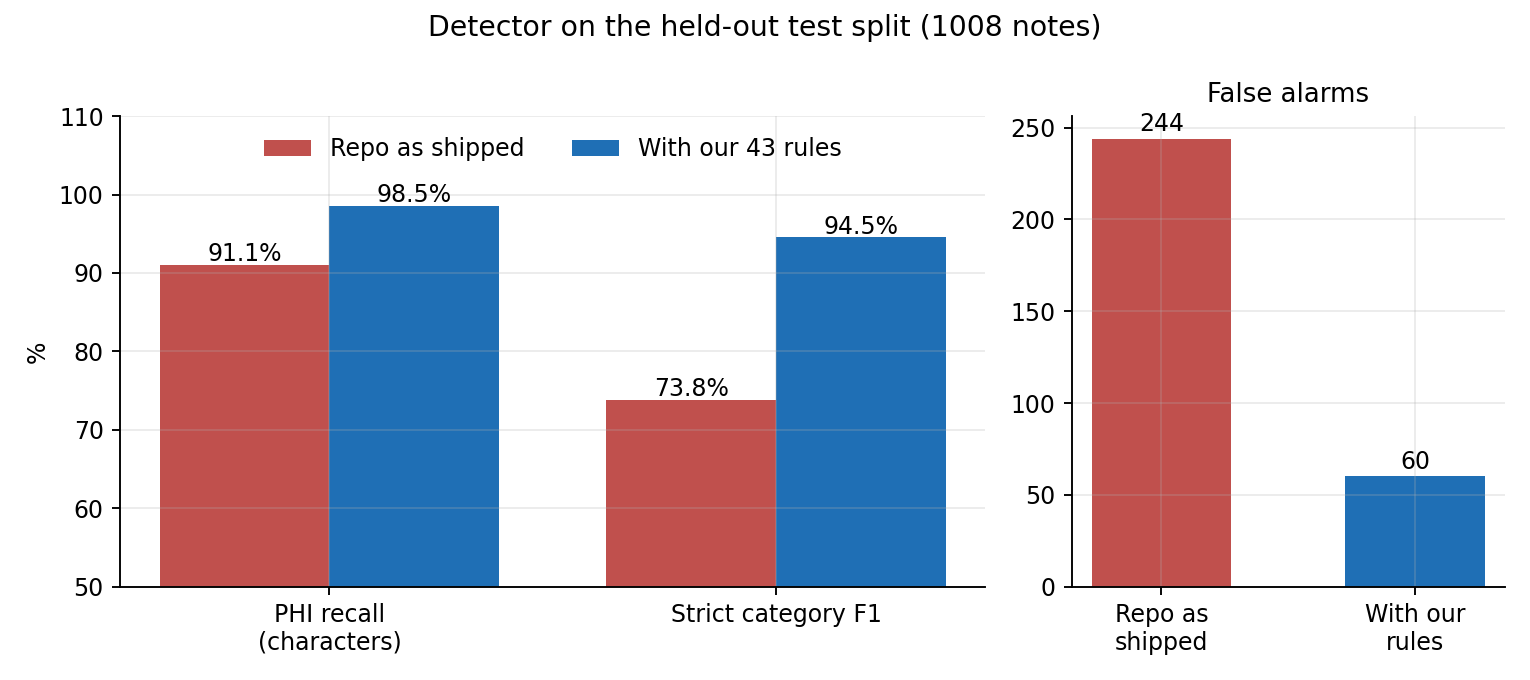
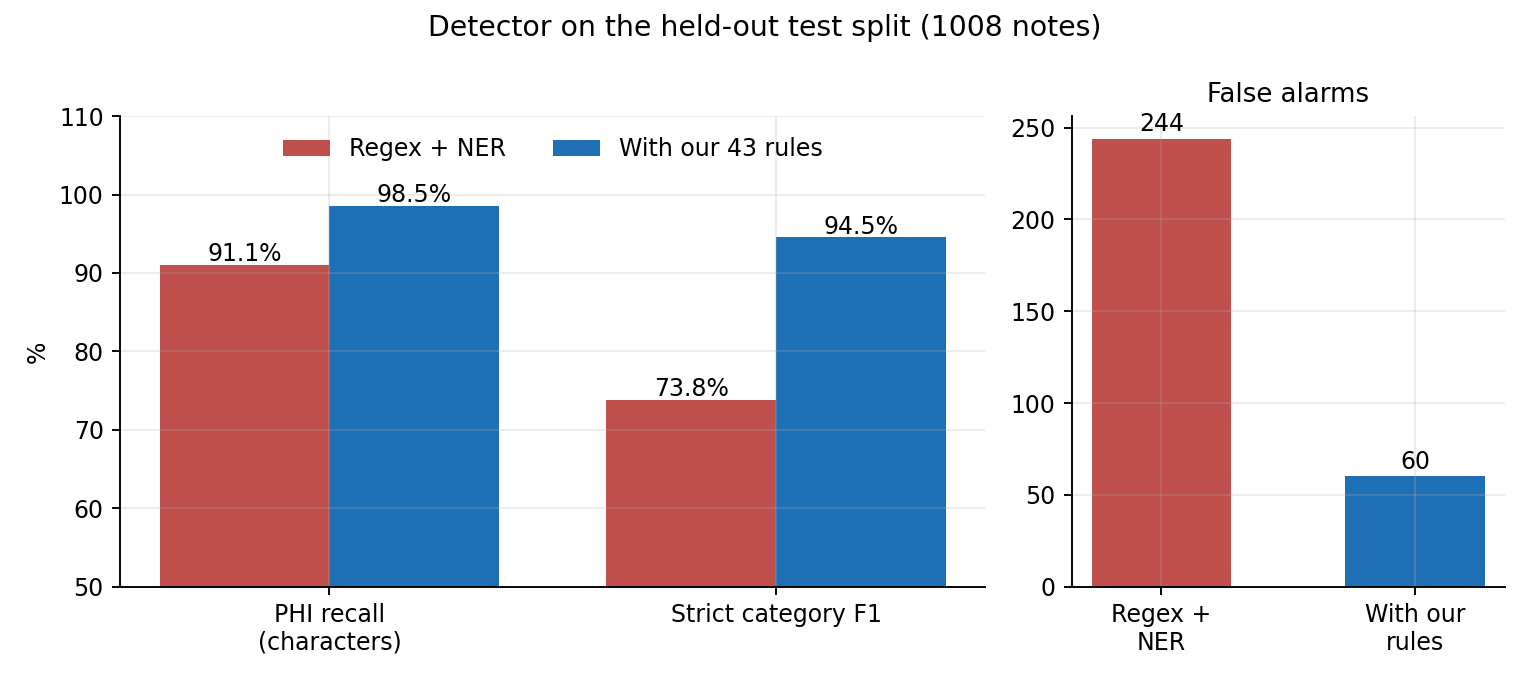
Call the baseline 'regex + NER model' instead of 'repo as shipped'

Changed region(s): [[0.1536, 0.1853, 0.5529, 0.2471], [0.7065, 0.8956, 0.7987, 0.9574]]

diff --git a/deidconf/figures.py b/deidconf/figures.py
@@ -32,13 +32,13 @@ def detector(split, tag, out):
     bv = [base["char"]["phi_recall"] * 100, base["strict_category"]["f1"] * 100]
     nv = [new["char"]["phi_recall"] * 100, new["strict_category"]["f1"] * 100]
     x = np.arange(2)
-    r1 = a.bar(x - 0.19, bv, 0.38, color=RAW, label="Repo as shipped")
+    r1 = a.bar(x - 0.19, bv, 0.38, color=RAW, label="Regex + NER")
     r2 = a.bar(x + 0.19, nv, 0.38, color=OURS, label="With our 43 rules")
     for r in list(r1) + list(r2):
         a.text(r.get_x() + r.get_width() / 2, r.get_height() + 0.5, f"{r.get_height():.1f}%", ha="center", fontsize=10)
     a.set_xticks(x, names); a.set_ylim(50, 110); a.set_ylabel("%"); a.legend(loc="upper center", ncol=2, frameon=False); _style(a)
     fa = [base["pred_all"]["false_alarms"], new["pred_all"]["false_alarms"]]
-    r = b.bar(["Repo as\nshipped", "With our\nrules"], fa, color=[RAW, OURS], width=0.55)
+    r = b.bar(["Regex +\nNER", "With our\nrules"], fa, color=[RAW, OURS], width=0.55)
     for rr in r:
         b.text(rr.get_x() + rr.get_width() / 2, rr.get_height() + 4, f"{int(rr.get_height())}", ha="center", fontsize=10)
     b.set_title("False alarms", fontsize=11); _style(b)

diff --git a/deidconf/evaluate.py b/deidconf/evaluate.py
@@ -290,7 +290,7 @@ def main(argv=None) -> int:
     ap.add_argument("--out", default="results/eval")
     ap.add_argument("--rules", default="cached", choices=["cached", "live", "baseline"],
                     help="live: run the current regex rules (incl. MedDeID rule set) instead of the cached spans; "
-                         "baseline: run the repo's shipped rules and settings (no MedDeID rule set)")
+                         "baseline: run the original regex rules and NER model (no MedDeID rule set)")
     ap.add_argument("--model", default="cached", choices=["cached", "redecode"],
                     help="redecode: decode model spans again from cached probabilities with the current label map")
     ap.add_argument("--tag", default=None, help="output folder suffix (default: '_live' when rules/model are live)")

diff --git a/deidconf/detect.py b/deidconf/detect.py
@@ -53,7 +53,7 @@ def adapted_configs():
 
 
 def baseline_configs():
-    """The repo's shipped rules and settings, only adapted to the MedDeID guideline (the 'as shipped' baseline that
+    """The original regex rules and NER model, only adapted to the MedDeID guideline (the baseline that
     was scored on cal before any MedDeID rule existed): all ages, titles kept, states kept, no model-score cut."""
     from deid.config import load_labels, load_yaml
     det = load_yaml(REPO / "configs/detection.yaml")

diff --git a/deidconf/report.py b/deidconf/report.py
@@ -43,7 +43,7 @@ def main(argv=None) -> int:
           "|---|---|---|---|---|---|"]
     rows = []
     if base:
-        rows.append(("Baseline: repo rules + model (as shipped)", base))
+        rows.append(("Baseline: regex + NER model", base))
     if ev_rules:
         rows.append(("MedDeID rules only", ev_rules))
     if ev_model:

diff --git a/REPORT.md b/REPORT.md
@@ -98,7 +98,7 @@ are the first numbers seen on `cal`.
 
 | System | PHI recall (chars) [95 % CI] | Non-PII redaction | Strict category P / R / F1 | False alarms | Hard negatives redacted |
 |---|---|---|---|---|---|
-| Baseline: repo rules + model, as shipped | 91.4 % [90.8–92.0] | 0.31 % | 73.0 / 74.3 / 73.7 | 251 | 33 / 1000 |
+| Baseline: regex + NER model | 91.4 % [90.8–92.0] | 0.31 % | 73.0 / 74.3 / 73.7 | 251 | 33 / 1000 |
 | MedDeID rules only | 94.1 % [93.5–94.8] | 0.06 % | 97.6 / 91.6 / 94.5 | 16 | 2 / 1000 |
 | Model only | 83.6 % [82.7–84.6] | 0.04 % | 72.8 / 69.1 / 70.9 | 57 | 14 / 1000 |
 | **MedDeID rules + model** | **98.5 % [98.2–98.8]** | 0.09 % | 94.1 / 94.9 / **94.5** | 72 | 15 / 1000 |
@@ -161,14 +161,14 @@ of the 15 for review. Per note on CPU: rules 9 ms, model 0.40 s, MC dropout with
 ### 5.2 Test split (single run; full tables in `results/RESULTS_test_v5.md`)
 
 Nothing was refitted: rules and settings from `train`, forecasters and thresholds from `cal`. The baseline row
-re-runs the repo's shipped rules and settings on the same notes (code-level guards added during the project also
+re-runs the original regex rules and NER model, with the same guideline settings, on the same notes (code-level guards added during the project also
 apply to it, worth ≈ 9 false alarms per 1,000 notes on `cal`).
 
 **Detector** (1,008 notes, 5,790 gold spans).
 
 | System | PHI recall (chars) [95 % CI] | Non-PII redaction | Strict category P / R / F1 | False alarms | Hard negatives redacted |
 |---|---|---|---|---|---|
-| Baseline: repo rules + model, as shipped | 91.1 % [90.5–91.7] | 0.30 % | 73.3 / 74.2 / 73.8 | 244 | 32 / 1008 |
+| Baseline: regex + NER model | 91.1 % [90.5–91.7] | 0.30 % | 73.3 / 74.2 / 73.8 | 244 | 32 / 1008 |
 | MedDeID rules only | 94.1 % [93.5–94.8] | 0.04 % | 97.6 / 91.6 / 94.5 | 9 | 0 / 1008 |
 | Model only | 83.4 % [82.5–84.3] | 0.03 % | 73.2 / 69.0 / 71.0 | 51 | 11 / 1008 |
 | **MedDeID rules + model** | **98.5 % [98.3–98.9]** | 0.07 % | 94.1 / 94.9 / **94.5** | 60 | 11 / 1008 |
@@ -255,7 +255,7 @@ confidence layer. Per note on CPU: rules 17 ms, model 0.35 s, MC dropout with 10
 
 ## 6. Discussion
 
-**What the detector changes bought.** The shipped repo reached 91 % character recall on MedDeID with 251 false
+**What the detector changes bought.** The original regex + NER system reached 91 % character recall on MedDeID with 251 false
 alarms per 1,000 notes; most of the gap was guideline mismatch (titles, states, all ages, `Occupation:`), UK
 identifiers the HIPAA-oriented rules never saw, and generic organisation rules that fired on specialties. 43
 guideline-specific rules written on `train` plus a handful of post-processing switches took recall to 98.5 % and
@@ -333,7 +333,7 @@ spans, 95 on test, 18 of them wrong): the forecaster's ECE there is 0.035, ten t
 python -m deidconf.prepare                      # split (once)
 python -m deidconf.detect --split cal           # model pass, cached
 python -m deidconf.mcdropout --split cal        # 10 passes; the saved forecasters use these features
-python -m deidconf.evaluate --split cal --rules baseline --model redecode --tag ""   # shipped repo
+python -m deidconf.evaluate --split cal --rules baseline --model redecode --tag ""   # original regex + NER baseline
 python -m deidconf.evaluate --split cal --rules live --model redecode --tag _v5
 python -m deidconf.features --split cal --eval-tag _v5
 python -m deidconf.confidence --features results/features/cal_v5.rules+model.csv --target y_is_phi --save

diff --git a/NEXT_STEPS.md b/NEXT_STEPS.md
@@ -14,7 +14,7 @@
 
 | # | Step | Result on `test` (single run, nothing refitted) |
 |---|---|---|
-| 1–2 | Detector + evaluation | Baseline (repo as shipped): PHI recall 91.1 %, 244 false alarms, strict F1 73.8 %. **Improved: 98.5 %, 60 false alarms, strict F1 94.5 %**, non-PII redaction 0.07 % |
+| 1–2 | Detector + evaluation | Baseline (regex + NER model): PHI recall 91.1 %, 244 false alarms, strict F1 73.8 %. **Improved: 98.5 %, 60 false alarms, strict F1 94.5 %**, non-PII redaction 0.07 % |
 | 3 | Full probabilities + MC dropout | cached in `results/detect/`, `results/mcdropout/` (cal and test) |
 | 4–5 | Span confidence (papers 1 + 2 + ours) | is-PHI: ECE 0.203 → **0.003**, AUROC(error) 0.752 → **0.998**, all 62 spans that are not PHI (including all 60 false alarms) among the 5 % least-confident spans. Category: ECE 0.0045, AUROC 0.997. Exact: ECE 0.005, AUROC 0.997 |
 | 6 | Missed PHI (our addition) | 86 % of uncovered gold spans get a candidate; forecaster AUROC 0.990; adding at p ≥ 0.5 adds 80 candidates, 76 of them real missed PHI (95 % precision), PHI recall 98.5 % → 99.5 %, gold spans missed 114 → 40; note-level risk AUROC 0.964, riskiest 10 % of notes hold 84 % of misses |

diff --git a/results/RESULTS_cal_v4.md b/results/RESULTS_cal_v4.md
@@ -4,7 +4,7 @@
 
 | System | PHI recall (chars) [95% CI] | Non-PII redaction | Strict category P / R / F1 | False alarms | Hard negatives redacted |
 |---|---|---|---|---|---|
-| Baseline: repo rules + model (as shipped) | 91.4% [90.8%–92.0%] | 0.31% | 73.0% / 74.3% / 73.7% | 251 | 33 / 1000 |
+| Baseline: regex + NER model | 91.4% [90.8%–92.0%] | 0.31% | 73.0% / 74.3% / 73.7% | 251 | 33 / 1000 |
 | MedDeID rules only | 93.5% [92.8%–94.2%] | 0.06% | 97.0% / 90.9% / 93.9% | 16 | 2 / 1000 |
 | Model only | 83.6% [82.7%–84.6%] | 0.04% | 72.8% / 69.1% / 70.9% | 57 | 14 / 1000 |
 | **Improved: MedDeID rules + model** | 98.2% [97.9%–98.6%] | 0.09% | 93.3% / 94.3% / 93.8% | 72 | 15 / 1000 |

diff --git a/results/RESULTS_cal_v5.md b/results/RESULTS_cal_v5.md
@@ -4,7 +4,7 @@
 
 | System | PHI recall (chars) [95% CI] | Non-PII redaction | Strict category P / R / F1 | False alarms | Hard negatives redacted |
 |---|---|---|---|---|---|
-| Baseline: repo rules + model (as shipped) | 91.4% [90.8%–92.0%] | 0.31% | 73.0% / 74.3% / 73.7% | 251 | 33 / 1000 |
+| Baseline: regex + NER model | 91.4% [90.8%–92.0%] | 0.31% | 73.0% / 74.3% / 73.7% | 251 | 33 / 1000 |
 | MedDeID rules only | 94.1% [93.5%–94.8%] | 0.06% | 97.6% / 91.6% / 94.5% | 16 | 2 / 1000 |
 | Model only | 83.6% [82.7%–84.6%] | 0.04% | 72.8% / 69.1% / 70.9% | 57 | 14 / 1000 |
 | **Improved: MedDeID rules + model** | 98.5% [98.2%–98.8%] | 0.09% | 94.1% / 94.9% / 94.5% | 72 | 15 / 1000 |

diff --git a/results/RESULTS_test_v5.md b/results/RESULTS_test_v5.md
@@ -4,7 +4,7 @@
 
 | System | PHI recall (chars) [95% CI] | Non-PII redaction | Strict category P / R / F1 | False alarms | Hard negatives redacted |
 |---|---|---|---|---|---|
-| Baseline: repo rules + model (as shipped) | 91.1% [90.5%–91.7%] | 0.30% | 73.3% / 74.2% / 73.8% | 244 | 32 / 1008 |
+| Baseline: regex + NER model | 91.1% [90.5%–91.7%] | 0.30% | 73.3% / 74.2% / 73.8% | 244 | 32 / 1008 |
 | MedDeID rules only | 94.1% [93.5%–94.8%] | 0.04% | 97.6% / 91.6% / 94.5% | 9 | 0 / 1008 |
 | Model only | 83.4% [82.5%–84.3%] | 0.03% | 73.2% / 69.0% / 71.0% | 51 | 11 / 1008 |
 | **Improved: MedDeID rules + model** | 98.5% [98.3%–98.9%] | 0.07% | 94.1% / 94.9% / 94.5% | 60 | 11 / 1008 |

diff --git a/README.md b/README.md
@@ -15,7 +15,7 @@ Jiwani et al., 2026, arXiv 2603.00022 (noise reduction in BERT NER with probabil
 
 ## Results (held-out test split, 1,008 notes, single run)
 
-| | Baseline (repo as shipped) | This work |
+| | Baseline (regex + NER model) | This work |
 |---|---|---|
 | PHI recall (chars) | 91.1 % | **98.5 %** |
 | Strict category F1 | 73.8 % | **94.5 %** |
